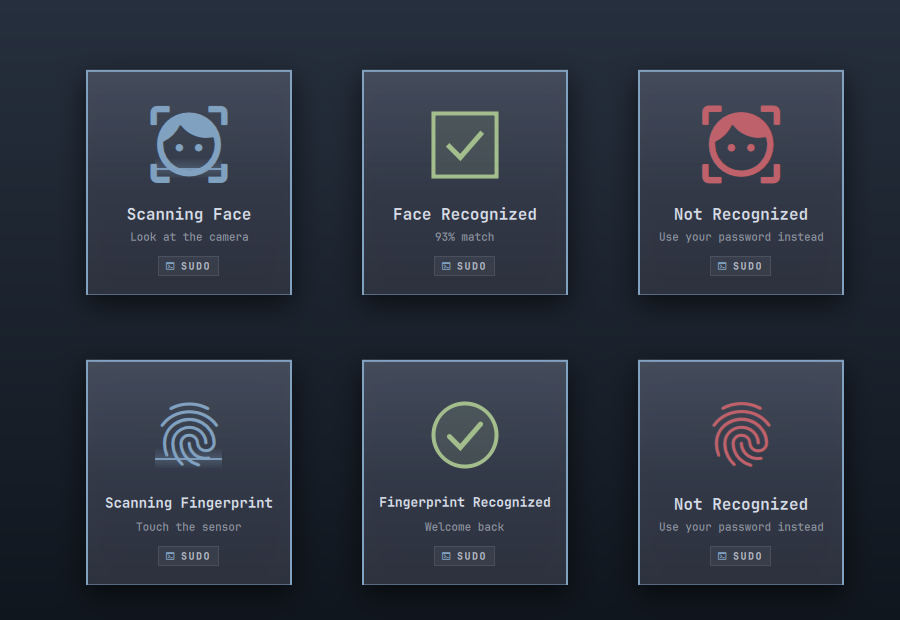
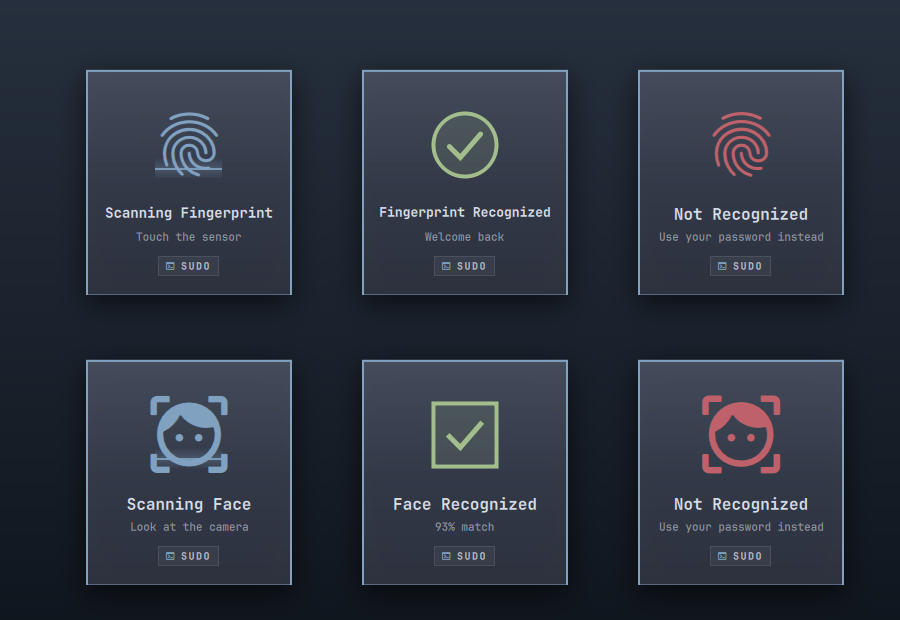
Release 1.4.0: lead with the backend most people already have
Omarchy sets up fingerprint itself, and facelock is a separate project
nobody gets by default, so the fingerprint reader goes first everywhere a
newcomer reads: the opening lines, the requirements, the demos, and the
preview, whose rows swap.

Also drops the last of the copy that assumed a face: the tile is not
facelock's, it draws whichever reader is installed.

Claude-Session: https://claude.ai/code/session_01HaGxnMcRjmRQxXKvPhe6pk

diff --git a/README.md b/README.md
@@ -1,35 +1,39 @@
 # Biometric HUD
 
-> **This is an animation, nothing more.** It is a tile that looks good on top of a face or
-> fingerprint setup you already have working. It does not authenticate you, does not install,
+> **This is an animation, nothing more.** It is a tile that looks good on top of a fingerprint or
+> face setup you already have working. It does not authenticate you, does not install,
 > configure or enrol anything, and cannot make a scan succeed or fail. Install it for the looks;
 > with nothing set up, this plugin has nothing to show and changes nothing.
 
-A Windows Hello style biometric tile for Omarchy, in Omarchy's own dress. While
-[facelock](https://github.com/tyvsmith/facelock) scans your face — or fprintd reads your finger —
-for a terminal password prompt or a polkit dialog, a card drops in under the bar: the icon
-breathes under a scan beam, then a frame traces itself into a check, or the card turns red and
-shakes.
+A Windows Hello style biometric tile for Omarchy, in Omarchy's own dress. While your fingerprint
+reader — or [facelock](https://github.com/tyvsmith/facelock), if you run it — answers a terminal
+password prompt or a polkit dialog, a card drops in under the bar: the icon breathes under a scan
+beam, then a frame traces itself into a check, or the card turns red and shakes.
 
-![The tile scanning, recognizing and rejecting, as a face and as a fingerprint](preview.png)
+Fingerprint needs nothing but Omarchy's own `omarchy-setup-security-fingerprint`. Face needs
+facelock, which is a separate project, and the tile reads whichever of the two you have.
+
+![The tile scanning, recognizing and rejecting, as a fingerprint and as a face](preview.png)
 
 Theme colours, theme border, theme corner radius, theme font. Lock-screen scans stay silent,
-because Omarchy's lock screen already draws its own face UI.
+because Omarchy's lock screen already draws its own.
 
-**The tile only ever displays.** facelock and PAM do the authenticating, entirely on their own;
-this plugin reads the outcome afterwards, out of the journal, and draws it. Take the plugin away
-and your face unlock works exactly as before — with no animation.
+**The tile only ever displays.** The reader and PAM do the authenticating, entirely on their own;
+this plugin learns the outcome afterwards and draws it. Take the plugin away and your unlock works
+exactly as before — with no animation.
 
 ## Requirements
 
 - Omarchy 4 with Quattro shell plugins (tested on 4.0.3-1 / Quickshell 0.3.1).
 - At least one of these, **already set up and working**. Setting them up is their job and yours;
   this plugin never does any of it.
+  - fprintd with a finger enrolled — on Omarchy that is `omarchy-setup-security-fingerprint`, and
+    nothing else is needed.
   - [facelock](https://github.com/tyvsmith/facelock) 0.2.x, enrolled, with `pam_facelock.so` in the
     PAM services you care about (`facelock setup` wires those up).
-  - fprintd with a finger enrolled (on Omarchy, `omarchy-setup-security-fingerprint`).
 - Permission to read the system journal — Omarchy accounts are in `wheel`, which is enough.
-- A Nerd Font as the shell font, for the face and badge glyphs (Omarchy's default is one).
+- A Nerd Font as the shell font, for the fingerprint, face and badge glyphs (Omarchy's default
+  is one).
 
 No camera access, no daemon, no elevated privileges, nothing to configure — and no change to your
 facelock or PAM setup, in either direction.
@@ -37,7 +41,7 @@ facelock or PAM setup, in either direction.
 ## Install
 
 ```bash
-omarchy plugin add https://github.com/GruperTal/omarchy-face-unlock.git --enable
+omarchy plugin add https://github.com/GruperTal/omarchy-biometric-hud.git --enable
 ```
 
 ## Update
@@ -58,10 +62,10 @@ so removing the folder removes the plugin entirely. Your facelock setup is untou
 ## Try it without a camera
 
 ```bash
-./demo/run           # a sudo scan that is recognized
-./demo/run fail      # a sudo scan that is not
+./demo/run finger    # a fingerprint scan that is recognized
+./demo/run           # a face scan that is recognized
+./demo/run fail      # a face scan that is not
 ./demo/run polkit    # a polkit scan
-./demo/run finger    # a fingerprint scan
 ```
 
 Or drive one frame at a time:
@@ -143,15 +147,15 @@ instead of the square scan frame. A third modality is those three lines again in
 
 Two readers, because the two backends say nothing in the same place.
 
-[`facelock.js`](facelock.js) follows the journal — `facelock-daemon.service` and the
-`pam_facelock` syslog identifier — since facelock's own D-Bus signals are root-only. `camera
-format negotiated` opens a scan, `authentication succeeded|failed` resolves it, and
-`pam_facelock(service):` names who asked.
-
 [`fprintd.js`](fprintd.js) follows the system bus, because `pam_fprintd` logs nothing per attempt.
 fprintd's signals are broadcast, so `gdbus monitor` receives them as an ordinary user — no
 eavesdropping, and none of the root-only `BecomeMonitor` that `busctl monitor` demands.
 `VerifyFingerSelected` opens a scan and `VerifyStatus` resolves it.
+
+[`facelock.js`](facelock.js) follows the journal — `facelock-daemon.service` and the
+`pam_facelock` syslog identifier — since facelock's own D-Bus signals are root-only. `camera
+format negotiated` opens a scan, `authentication succeeded|failed` resolves it, and
+`pam_facelock(service):` names who asked.
 
 [`requester.js`](requester.js) is shared: one `pgrep` asks which PAM helper is waiting, to label
 the card before the PAM line lands. If none is waiting, the scan belongs to the lock screen and
